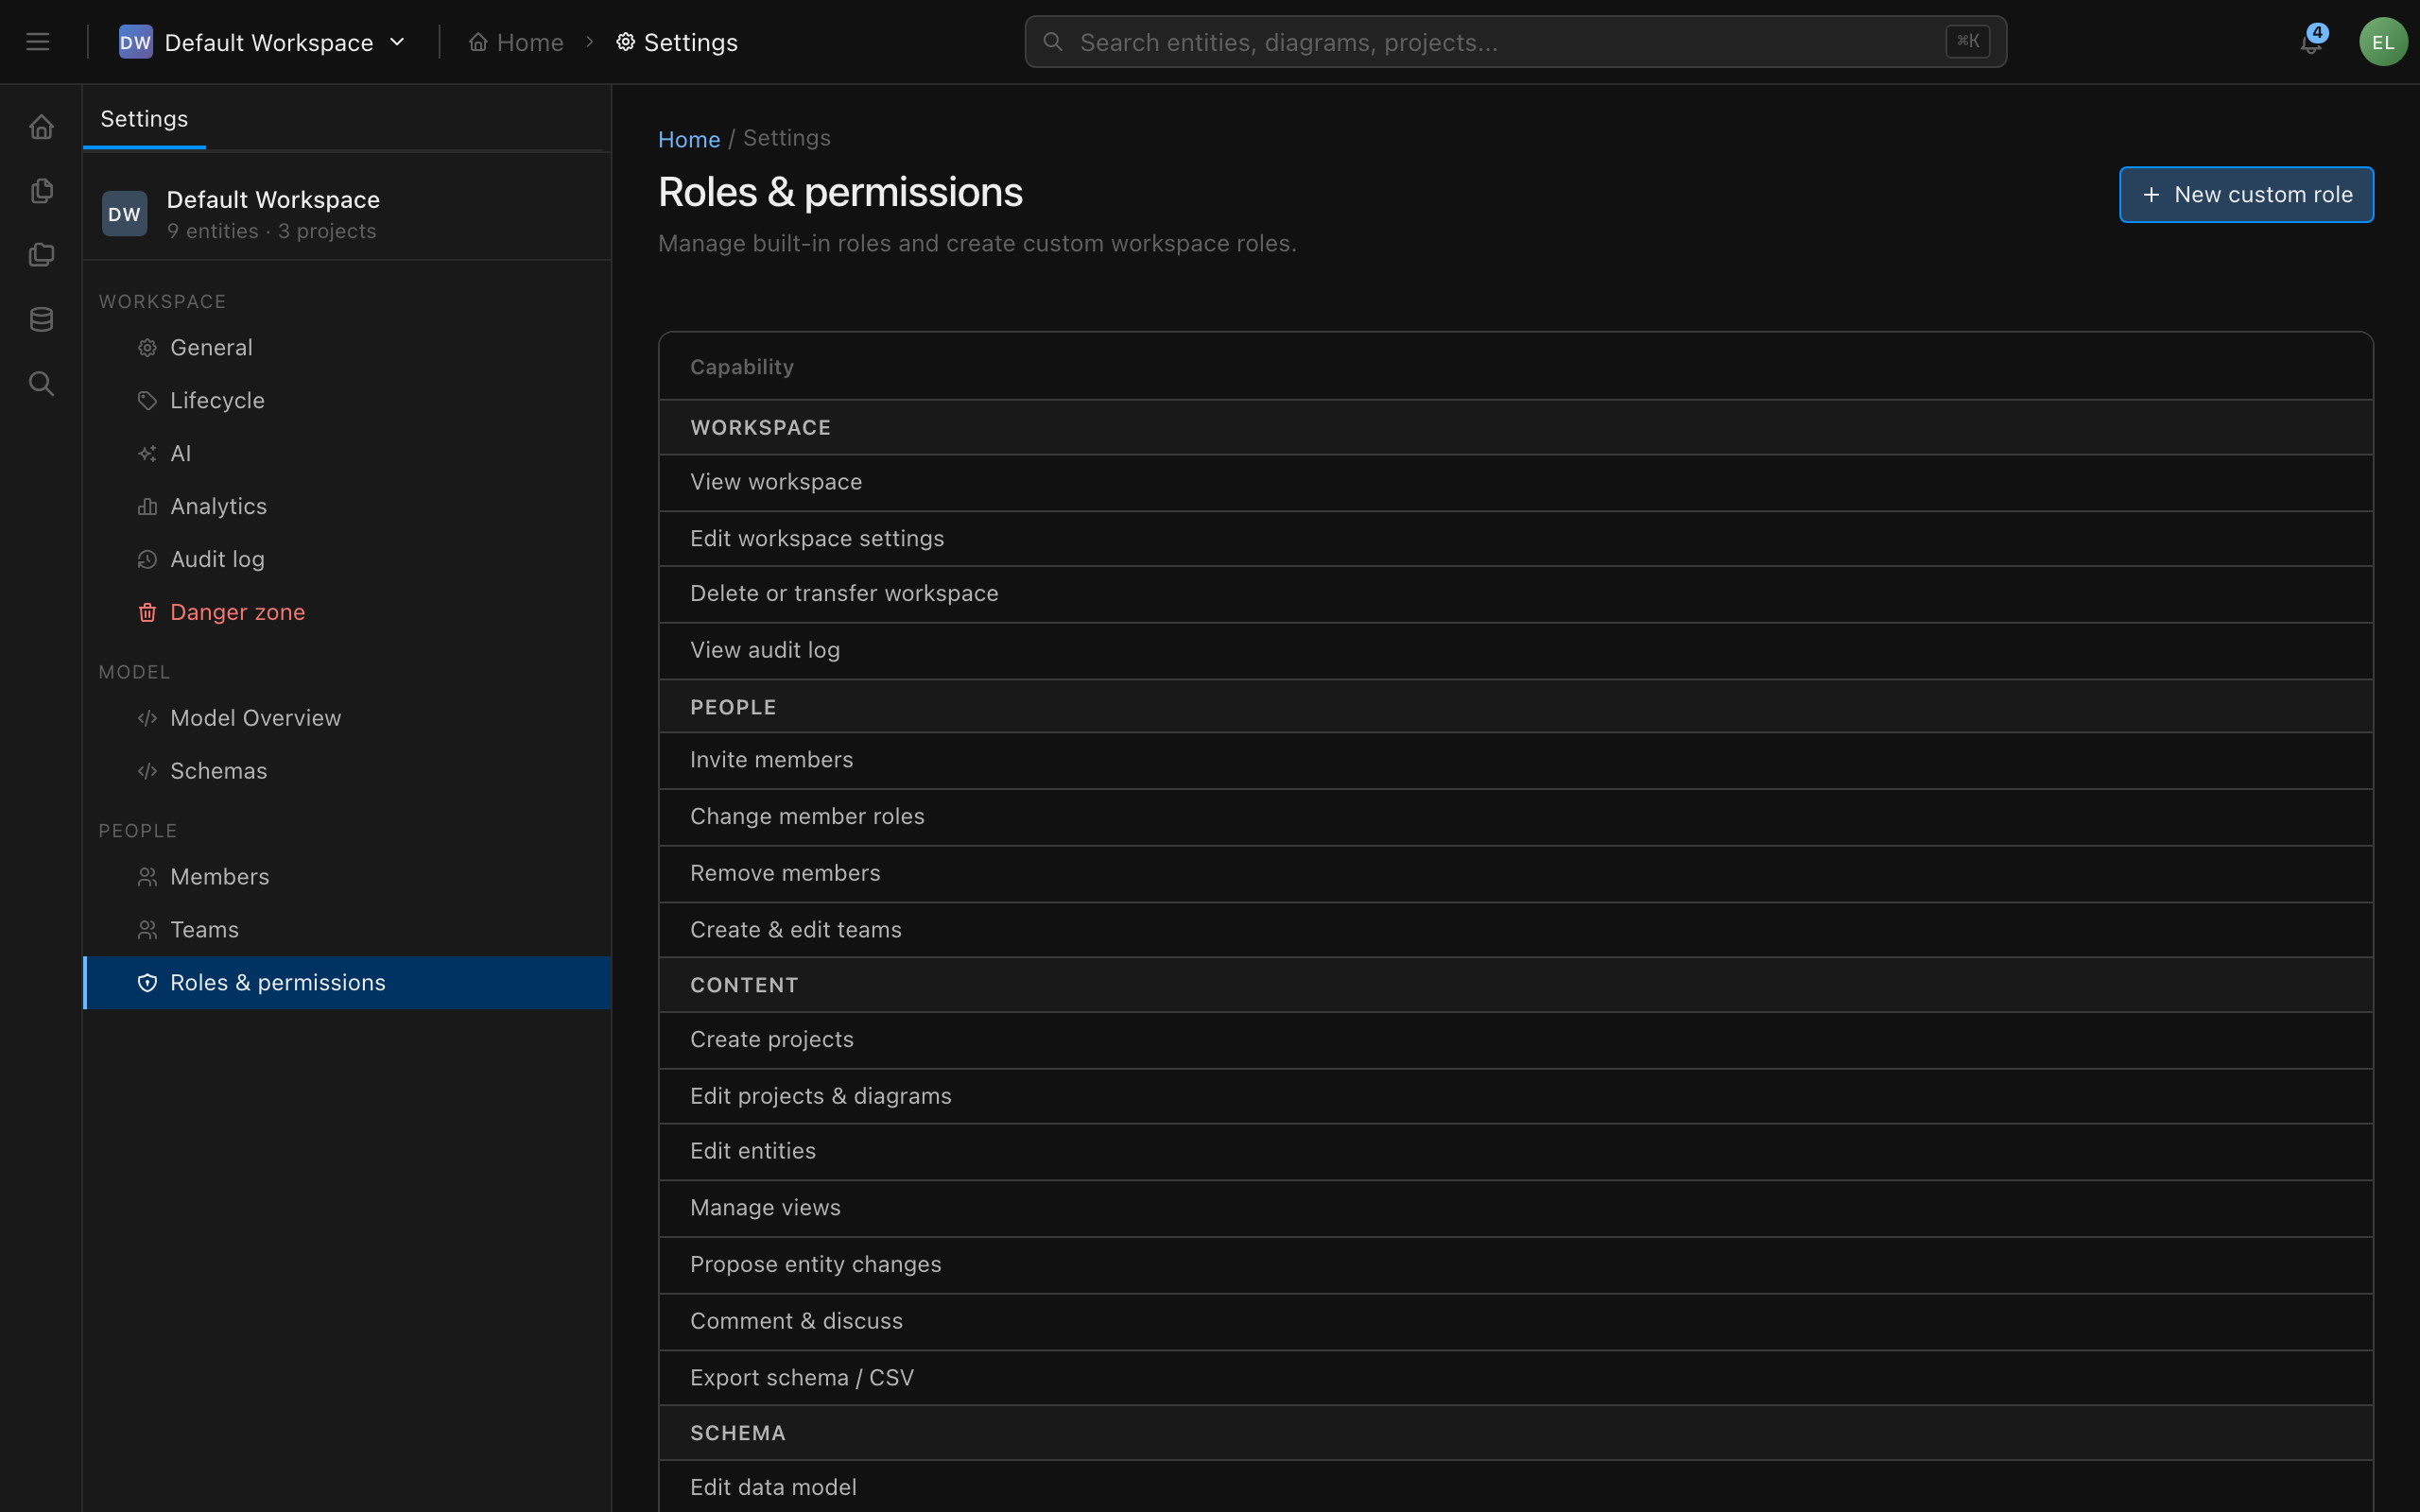
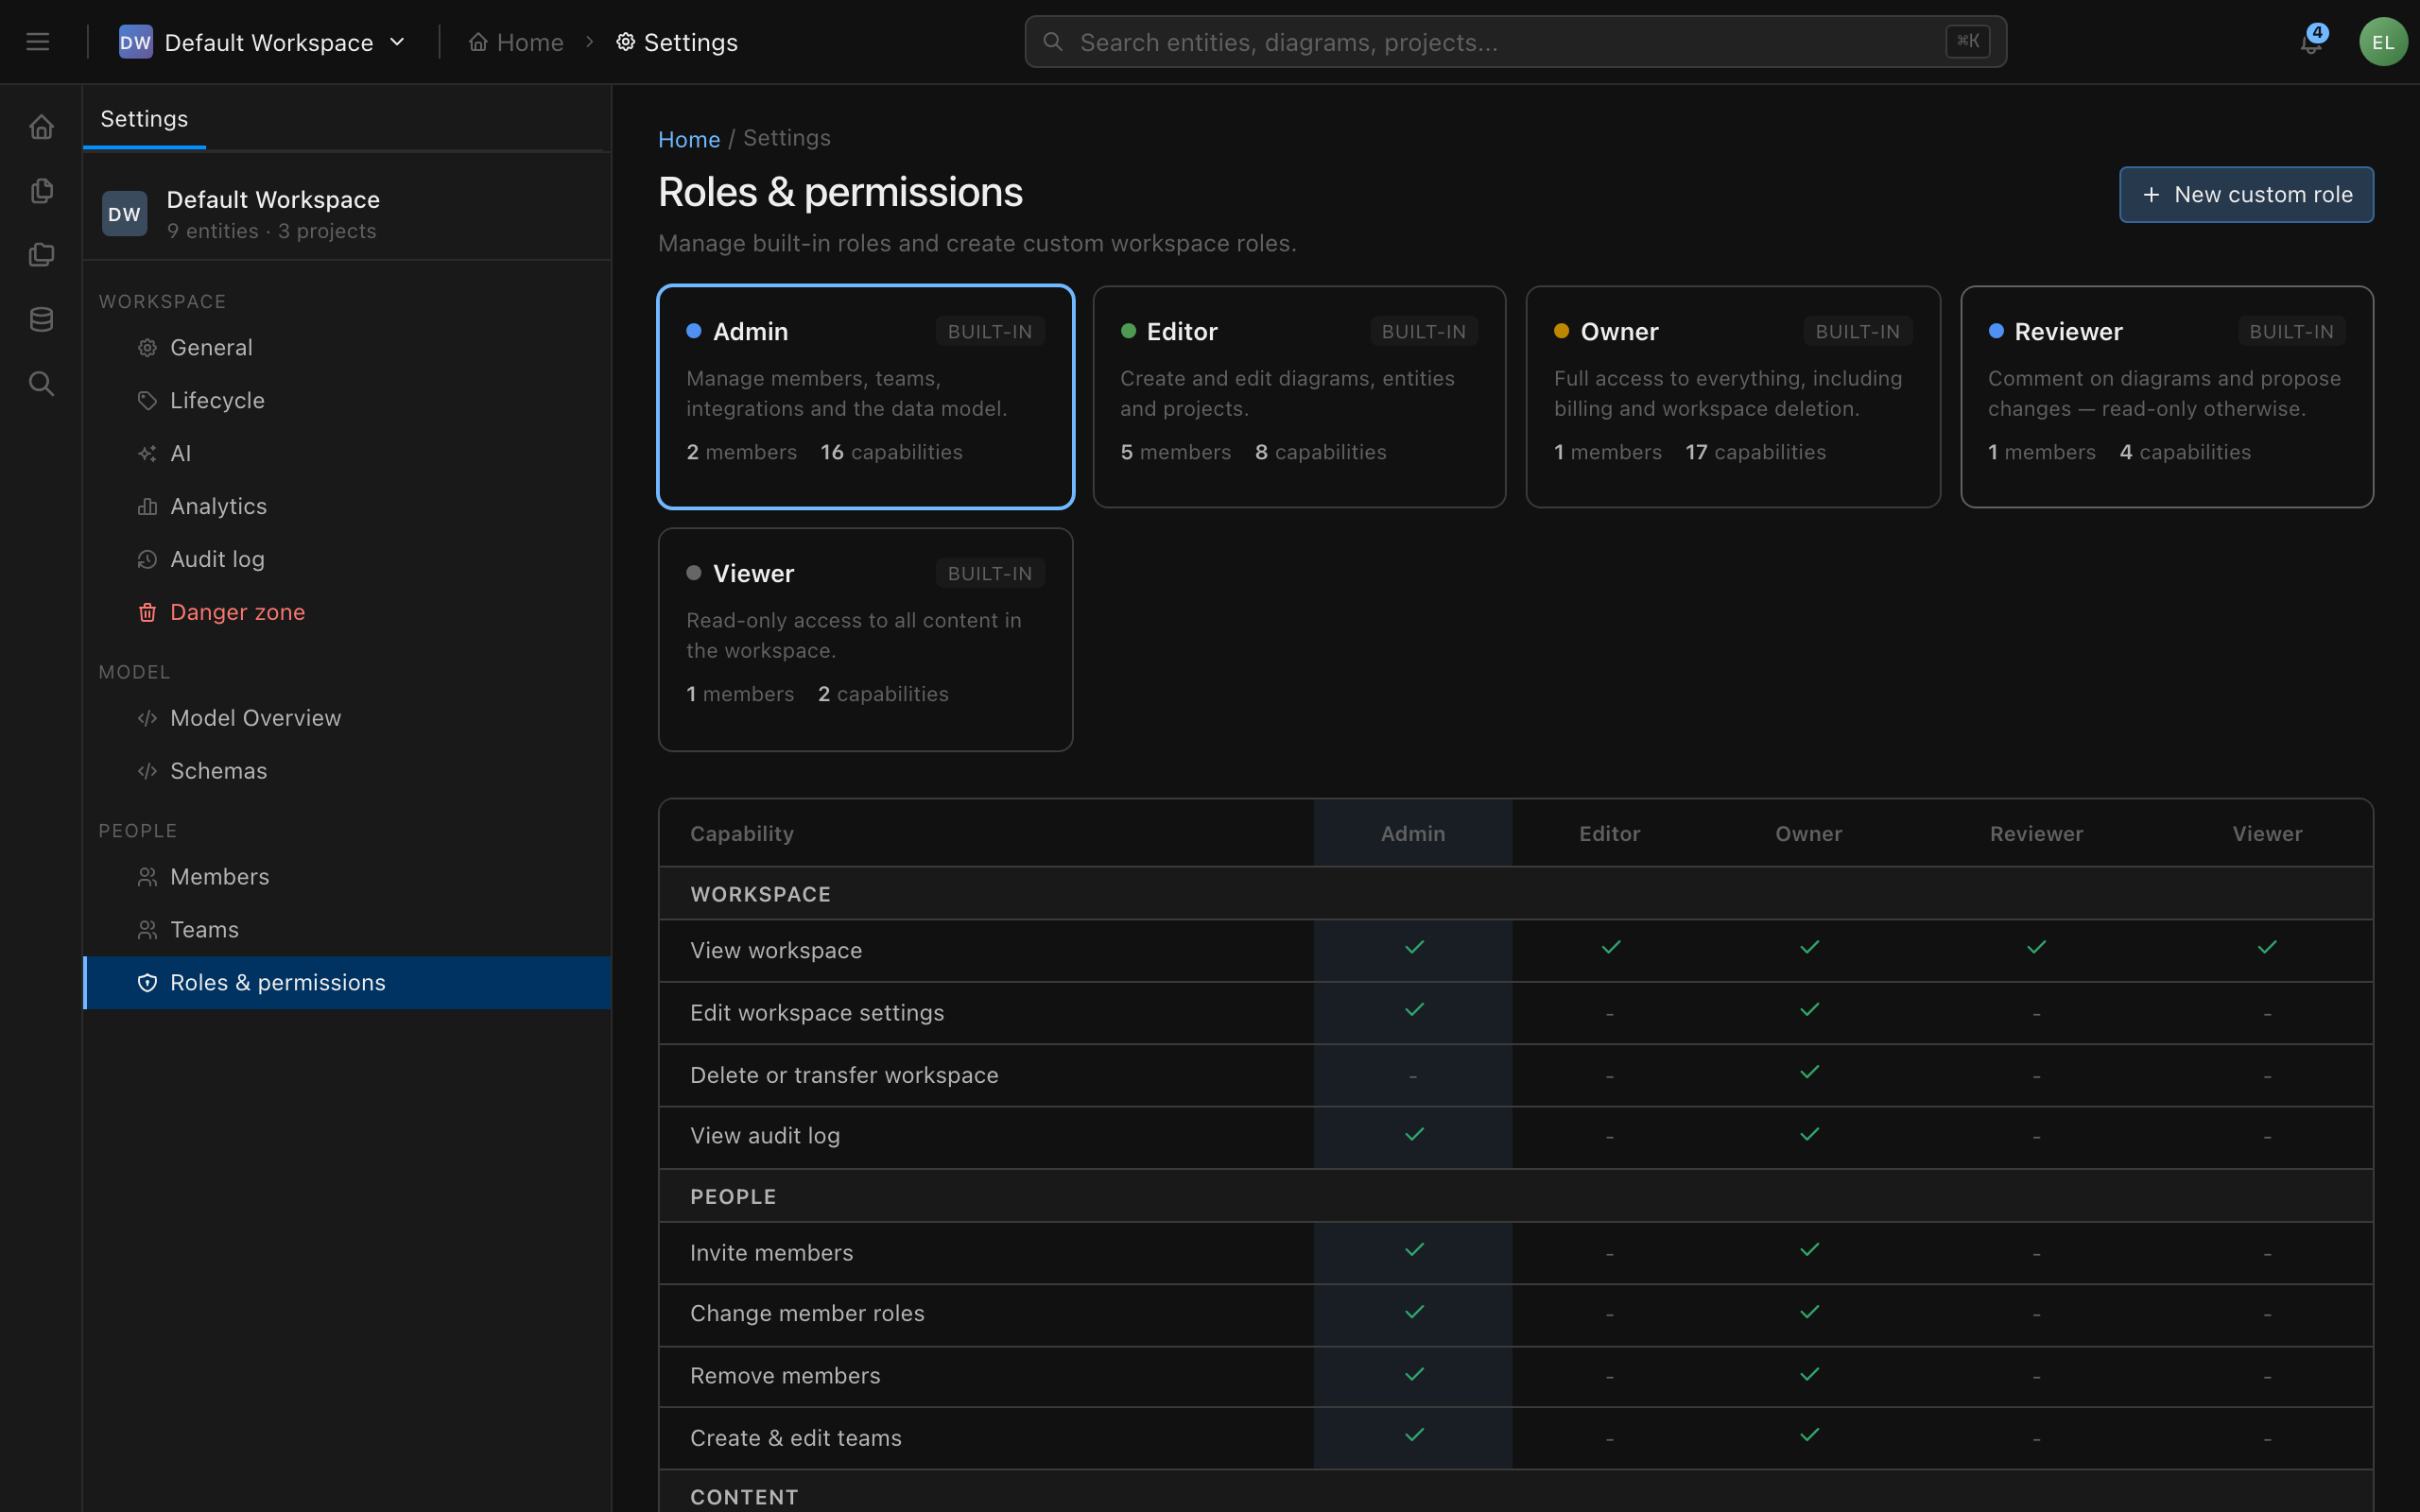
Diagram features

diff --git a/docs-site/scripts/generate-screenshots.ts b/docs-site/scripts/generate-screenshots.ts
@@ -1,10 +1,11 @@
 import { spawn } from 'node:child_process';
+import { randomUUID } from 'node:crypto';
 import { mkdtemp, mkdir, rm } from 'node:fs/promises';
 import { dirname, join, resolve } from 'node:path';
 import { tmpdir } from 'node:os';
 import { fileURLToPath } from 'node:url';
 import { setTimeout as sleep } from 'node:timers/promises';
-import { chromium, type Browser, type Page } from '@playwright/test';
+import { chromium, expect, type Browser, type Page } from '@playwright/test';
 import { DataModelPage } from '../../arch-register-packages/e2e/src/ui/pages/DataModelPage';
 import { EntitiesPage } from '../../arch-register-packages/e2e/src/ui/pages/EntitiesPage';
 import { HomePage } from '../../arch-register-packages/e2e/src/ui/pages/HomePage';
@@ -56,6 +57,206 @@ const webBaseUrl = `http://localhost:${screenshotWebPort}`;
 const serverBaseUrl = `http://localhost:${screenshotServerPort}`;
 const defaultViewport = { width: 1280, height: 800 } satisfies Viewport;
 const defaultDeviceScaleFactor = process.platform === 'darwin' ? 2 : 1;
+const projectDiagramName = 'Project overview draft';
+
+const escapeRegExp = (value: string) => value.replace(/[.*+?^${}()|[\]\\]/g, '\\$&');
+
+const createBlankDiagramDocument = (name: string) => {
+  const diagramId = randomUUID();
+  const layerId = randomUUID();
+
+  return {
+    name,
+    diagrams: [
+      {
+        id: diagramId,
+        name,
+        layers: [
+          {
+            id: layerId,
+            name: 'Default',
+            type: 'layer',
+            layerType: 'regular',
+            elements: [],
+            isLocked: false
+          }
+        ],
+        activeLayerId: layerId,
+        visibleLayers: [layerId],
+        diagrams: [],
+        comments: [],
+        zoom: { x: 0, y: 0, zoom: 1 },
+        canvas: { x: -20, y: -20, w: 1076, h: 904 }
+      }
+    ],
+    attachments: {},
+    customPalette: Array(14).fill('#000000'),
+    styles: {
+      edgeStyles: [
+        {
+          id: 'default-edge',
+          name: 'Default',
+          props: { stroke: { color: 'var(--canvas-fg)' }, type: 'straight' },
+          type: 'edge'
+        }
+      ],
+      nodeStyles: [
+        {
+          id: 'default',
+          name: 'Default',
+          props: {
+            fill: { color: 'var(--canvas-bg2)' },
+            stroke: { color: 'var(--canvas-fg)' },
+            text: { color: 'var(--canvas-fg)' }
+          },
+          type: 'node'
+        },
+        {
+          id: 'default-text',
+          name: 'Text',
+          props: {
+            fill: { enabled: false },
+            stroke: { enabled: false },
+            text: { color: 'var(--canvas-fg)' }
+          },
+          type: 'node'
+        }
+      ],
+      textStyles: [
+        {
+          id: 'default-text-default',
+          name: 'Default',
+          props: {
+            text: { fontSize: 10, font: 'sans-serif', top: 0, left: 0, right: 0, bottom: 0 }
+          },
+          type: 'text'
+        },
+        {
+          id: 'h1',
+          name: 'H1',
+          props: {
+            text: {
+              fontSize: 20,
+              bold: true,
+              font: 'sans-serif',
+              align: 'left',
+              top: 6,
+              left: 6,
+              right: 6,
+              bottom: 6
+            }
+          },
+          type: 'text'
+        }
+      ]
+    },
+    schemas: [
+      {
+        id: 'default',
+        name: 'Default',
+        providerId: 'default',
+        fields: [
+          { id: 'name', name: 'Name', type: 'text' },
+          { id: 'notes', name: 'Notes', type: 'longtext' }
+        ]
+      }
+    ],
+    schemaMetadata: {
+      default: { availableForElementLocalData: false, useDocumentOverrides: false }
+    },
+    props: {
+      query: { history: [], saved: [] },
+      stencils: ['default@@rect'],
+      activeStencilPackages: [],
+      recentEdgeStylesheets: []
+    },
+    data: {
+      providers: [
+        {
+          id: 'default',
+          providerId: 'defaultDataProvider',
+          data: '{"schemas":[{"id":"default","name":"Default","providerId":"default","fields":[{"id":"name","name":"Name","type":"text"},{"id":"notes","name":"Notes","type":"longtext"}]}],"data":[]}'
+        }
+      ],
+      templates: [],
+      overrides: {}
+    },
+    activeDiagramId: diagramId,
+    hash: `${randomUUID()}${randomUUID()}`
+  };
+};
+
+const openProjectNewDiagramDialog = async (page: Page) => {
+  await page.getByRole('main').getByRole('button', { name: 'New' }).click();
+  const newDiagramItem = page.getByRole('menuitem', { name: 'New diagram' });
+  await expect(newDiagramItem).toBeVisible();
+  await newDiagramItem.click();
+  await expect(page.getByText('Choose a starting point')).toBeVisible();
+};
+
+const createBlankProjectDiagram = async (page: Page, name: string) => {
+  await page.evaluate(
+    async ({ workspaceSlug, projectId, diagramName, diagramBody }) => {
+      const response = await fetch(
+        `/api/${encodeURIComponent(workspaceSlug)}/projects/${encodeURIComponent(projectId)}/files?path=${encodeURIComponent(diagramName)}.json`,
+        {
+          method: 'PUT',
+          headers: {
+            'content-type': 'application/json'
+          },
+          body: JSON.stringify(diagramBody)
+        }
+      );
+
+      if (!response.ok) {
+        throw new Error(`Failed to create diagram: ${response.status}`);
+      }
+    },
+    {
+      workspaceSlug: defaultWorkspace.slug,
+      projectId: authMigrationProject.id,
+      diagramName: name,
+      diagramBody: createBlankDiagramDocument(name)
+    }
+  );
+
+  await page.reload();
+  await expect(page.getByRole('main').getByRole('button', { name: new RegExp(escapeRegExp(name)) })).toBeVisible();
+};
+
+const markProjectDiagramAsTemplate = async (page: Page, name: string) => {
+  await page.evaluate(
+    async ({ workspaceSlug, projectId, diagramName }) => {
+      const response = await fetch(
+        `/api/${encodeURIComponent(workspaceSlug)}/projects/${encodeURIComponent(projectId)}/template-status?path=${encodeURIComponent(diagramName)}.json`,
+        {
+          method: 'PUT',
+          headers: {
+            'content-type': 'application/json'
+          },
+          body: JSON.stringify({
+            is_template: true,
+            is_workspace_template: false
+          })
+        }
+      );
+
+      if (!response.ok) {
+        throw new Error(`Failed to promote diagram to template: ${response.status}`);
+      }
+    },
+    {
+      workspaceSlug: defaultWorkspace.slug,
+      projectId: authMigrationProject.id,
+      diagramName: name
+    }
+  );
+};
+
+const openDiagramEditorFromProject = async (page: Page, name: string) => {
+  await page.getByRole('main').getByRole('button', { name: new RegExp(escapeRegExp(name)) }).first().click();
+  await expect(page.locator('#awareness')).toBeVisible();
+};
 
 const env = {
   ...process.env,
@@ -205,6 +406,44 @@ const screenshotConfigs: ScreenshotConfig[] = [
     setup: async ({ projectsPage }) => {
       await projectsPage.gotoProject(authMigrationProject.id);
       await projectsPage.expectProjectOpened(authMigrationProject.name);
+    }
+  },
+  {
+    product: 'arch-register',
+    category: 'projects',
+    name: 'add-diagram-dialog',
+    selector: '[role="alertdialog"]',
+    setup: async ({ projectsPage }) => {
+      await projectsPage.gotoProject(authMigrationProject.id);
+      await projectsPage.expectProjectOpened(authMigrationProject.name);
+      await openProjectNewDiagramDialog(projectsPage.page);
+    }
+  },
+  {
+    product: 'arch-register',
+    category: 'projects',
+    name: 'diagram-editor',
+    fullPage: false,
+    setup: async ({ projectsPage }) => {
+      await projectsPage.gotoProject(authMigrationProject.id);
+      await projectsPage.expectProjectOpened(authMigrationProject.name);
+      await createBlankProjectDiagram(projectsPage.page, projectDiagramName);
+      await openDiagramEditorFromProject(projectsPage.page, projectDiagramName);
+    }
+  },
+  {
+    product: 'arch-register',
+    category: 'projects',
+    name: 'template-dialog',
+    selector: '[role="alertdialog"]',
+    setup: async ({ projectsPage }) => {
+      await projectsPage.gotoProject(authMigrationProject.id);
+      await projectsPage.expectProjectOpened(authMigrationProject.name);
+      await markProjectDiagramAsTemplate(projectsPage.page, projectDiagramName);
+      await sleep(500);
+      await projectsPage.gotoProject(authMigrationProject.id);
+      await projectsPage.expectProjectOpened(authMigrationProject.name);
+      await openProjectNewDiagramDialog(projectsPage.page);
     }
   },
   {

diff --git a/docs-site/docs/arch-register/user-guide/projects.md b/docs-site/docs/arch-register/user-guide/projects.md
@@ -1,15 +1,68 @@
-# Projects
+# Projects and diagrams
 
-Projects group files and diagrams within a workspace.
+Projects group diagrams, files, and wiki pages inside a workspace.
+They are separate from entities and schemas, but they can reference both when a diagram needs architectural context.
 
-They are separate from entities and schemas, but can reference them when a diagram or document needs architectural context.
+## What a project contains
 
-## Common actions
+- Folders for organizing related content.
+- Diagrams for architecture views and workflows.
+- Files such as attachments and supporting documents.
+- Templates that can be reused when creating new diagrams.
+- Real-time collaboration for shared editing.
 
-- Create a project from the home screen.
-- Add files and diagrams to a project.
-- Open a project to review its contents and timeline.
+## Project browser
+
+Use the project browser to review project metadata, navigate into folders, and open content.
+
+![Project browser overview](/img/arch-register/projects/list.png)
+
+![Project detail view](/img/arch-register/projects/auth-migration-detail.png)
+
+## Creating diagrams
+
+1. Open a project.
+2. Select `New` and then `New diagram`.
+3. Leave `Blank canvas` selected to start from an empty diagram.
+4. Enter a diagram name.
+5. Select `Create diagram`.
+6. Open the new diagram card to launch the editor.
+
+Use the same dialog to create diagrams from templates when a project template or workspace template is available.
+
+![New diagram dialog](/img/arch-register/projects/add-diagram-dialog.png)
+
+## Diagram editor
+
+The editor is where you add shapes, connectors, notes, and layout.
+Arch Register handles project context, saving, and collaboration around the editor.
+For canvas behavior, shortcuts, and advanced editor features, see the [Diagram Craft docs](/docs/diagram-craft/intro).
+
+![Blank diagram editor](/img/arch-register/projects/diagram-editor.png)
+
+## Templates
+
+Templates help standardize recurring diagram types.
+Project templates are available inside the current project.
+Workspace templates are available wherever the template rules allow them.
+
+You can promote a diagram to a template from its card menu, then create future diagrams from that starting point.
+
+![Template selection in new diagram dialog](/img/arch-register/projects/template-dialog.png)
+
+## Collaboration
+
+When multiple users open the same diagram, Arch Register connects them to the same collaborative session.
+The presence toolbar shows who is currently in the file, and edits sync in real time.
+
+## Common workflows
+
+- Create a blank diagram for a new initiative, then refine it in the editor.
+- Turn a finished diagram into a project template so future work starts from the same baseline.
+- Keep related diagrams in folders to make large projects easier to scan.
+- Open the same diagram with a teammate to review changes together.
 
 ## Related pages
 
 - [Core concepts](../getting-started/core-concepts)
+- [Diagram Craft docs](/docs/diagram-craft/intro)

diff --git a/docs-site/docs/arch-register/getting-started/core-concepts.md b/docs-site/docs/arch-register/getting-started/core-concepts.md
@@ -16,8 +16,9 @@ Entities appear in the entity browser, in entity detail screens, and in search r
 
 ## Project
 
-A project groups diagrams and related files.
+A project groups diagrams, folders, and related files.
 Projects are separate from entities, but can reference them.
+Project diagrams can also be marked as templates and opened collaboratively.
 
 ## Team
 
@@ -30,7 +31,9 @@ They are part of workspace configuration.
 
 - Home shows the current workspace summary.
 - Entities shows the list, filters, and create flow.
-- Projects shows project lists and project detail screens.
+- Projects shows project lists, project detail screens, folders, and diagram creation.
 - Settings contains workspace configuration.
 
 Next: [Create your first entity](first-entity).
+
+For project and diagram workflows, continue with [Projects](../user-guide/projects).

diff --git a/docs-site/docs/arch-register/intro.md b/docs-site/docs/arch-register/intro.md
@@ -25,3 +25,4 @@ Arch Register is a workspace-based application for storing architectural entitie
 - Creating the first workspace
 - Adding the first entity
 - Reference material for workspaces, entities, and projects
+- Project folders, diagrams, templates, and collaboration